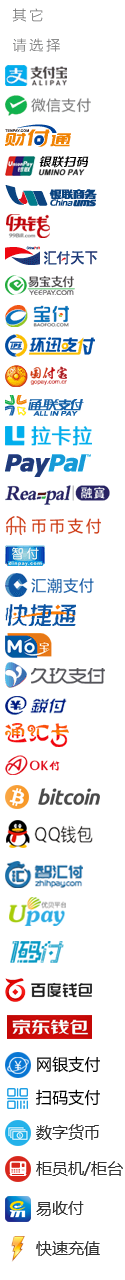
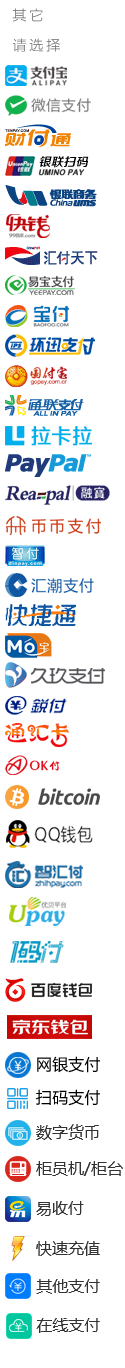
玩家中心调整

diff --git a/WebContent/static/pcenter/online-pay.html b/WebContent/static/pcenter/online-pay.html
@@ -308,13 +308,19 @@ var environment = {
                             <a role="menuitem" tabindex="-1" href="javascript:void(0)" key="30"><i class="pay-third gyjgt"></i></a>
                         </li>
                         <li role="presentation">
-                            <a role="menuitem" tabindex="-1" href="javascript:void(0)" key="30"><i class="pay-third ysfpay"></i></a>
+                            <a role="menuitem" tabindex="-1" href="javascript:void(0)" key="30"><i class="pay-third easy_pay"></i></a>
                         </li>
                         <li role="presentation">
                             <a role="menuitem" tabindex="-1" href="javascript:void(0)" key="30"><i class="pay-third quickpay"></i></a>
                         </li>
                         <li role="presentation">
                             <a role="menuitem" tabindex="-1" href="javascript:void(0)" key="30"><i class="pay-third bitcoin"></i></a>
+                        </li>
+                        <li role="presentation">
+                            <a role="menuitem" tabindex="-1" href="javascript:void(0)" key="30"><i class="pay-third else"></i></a>
+                        </li>
+                        <li role="presentation">
+                            <a role="menuitem" tabindex="-1" href="javascript:void(0)" key="30"><i class="pay-third onlinepay"></i></a>
                         </li>
                     </ul>
                 </div></div><a href="deposit-region.html" class="btn-gray btn btn-big pull-right">返回上一级</a></div>

diff --git a/WebContent/common/themes/public-mod.css b/WebContent/common/themes/public-mod.css
@@ -14,7 +14,7 @@
 .pay-bank.sm,.pay-third.sm{width:35px;display:inline-block;height:30px;vertical-align:middle;background:url(../images/pay-bank-x.png) left top no-repeat;}
 .pay-third{background:url(../images/pay-third.png) left top no-repeat;}
 .pay-third.sm{background:url(../images/pay-third-x.png) left top no-repeat;}
-.diy-pay-title{display: inline-block;font-size:12px;width: 76px;overflow: hidden;white-space: nowrap;text-overflow: ellipsis;vertical-align: middle;}
+.diy-pay-title{display: inline-block;font-size:12px;width: 95px;overflow: hidden;white-space: nowrap;text-overflow: ellipsis;vertical-align: middle;}
 
 /* 银行 */
 .pay-bank.else{background-position: 0 0;}/* 其他 */
@@ -314,8 +314,10 @@
 .pay-third.qrcodepay{background-position: 0 -1083px;}/* 32 扫码支付 */
 .pay-third.szhb{background-position: 0 -1119px;}/* 33 数字货币 */
 .pay-third.gyjgt{background-position: 0 -1155px;}/* 34 柜员机柜台 */
-.pay-third.ysfpay{background-position: 0 -1195px;}/* 35 易收付 */
+.pay-third.easy_pay{background-position: 0 -1195px;}/* 35 易收付 */
 .pay-third.quickpay{background-position: 0 -1234px;}/* 36 快速充值 */
+.pay-third.else{background-position: 0 -1272px;}/* 36 其他支付 */
+.pay-third.onlinepay{background-position: 0 -1312px;}/* 36 其他支付 */
 
 .sm.unionpay,.sm.chinaums,.sm.bill99,.sm.chinapnr,.sm.reapal,.sm.dinpay,.sm.kjt,.sm.mobao,.sm.upay,.sm.onecodepay{width: 50px;}
 

diff --git a/WebContent/pcenter/themes/default/pcenter-style.css b/WebContent/pcenter/themes/default/pcenter-style.css
@@ -621,13 +621,13 @@ input[type="text"]:focus,input[type="email"]:focus,input[type="password"]:focus{
 .controls img{vertical-align:top}
 
 /* bank */
-.bank{float:left;cursor:pointer;border:2px solid #e2e2e2;margin-right:8px;display:inline-block;margin-top:8px;width:148px;height:32px;padding:8px 0px 6px 8px;margin-left:0;border-radius: 4px;}
+.bank{float:left;cursor:pointer;border:2px solid #e2e2e2;margin-right:8px;display:inline-block;margin-top:8px;width:160px;height:32px;padding:8px 0px 6px 8px;margin-left:0;border-radius: 4px;}
 .pay-bank{cursor:pointer;vertical-align:middle;}
 .moneydetail .pay-bank{margin-top:10px;vertical-align:top;}
 .bank-logo-name{line-height:0;overflow:hidden;display:block}
 .radio{cursor:pointer;}
-.bank:hover,.bank.select{border:2px solid #2772ee;cursor:pointer;width:148px;height:32px;}
-.bank.select{background:url("../../images/selectbank.png") no-repeat 139px 29px;}
+.bank:hover,.bank.select{border:2px solid #2772ee;cursor:pointer;width:160px;height:32px;}
+.bank.select{background:url("../../images/selectbank.png") no-repeat 152px 29px;}
 .code{margin-top:10px}
 .bank-spreadout{text-align:right;margin-right:117px;font-size:13px;}
 .bank-arrico{display:inline-block;margin-left:5px;vertical-align:middle;width:9px;height:5px;background:url(../../images/updown.png) no-repeat top left;cursor:pointer;}
